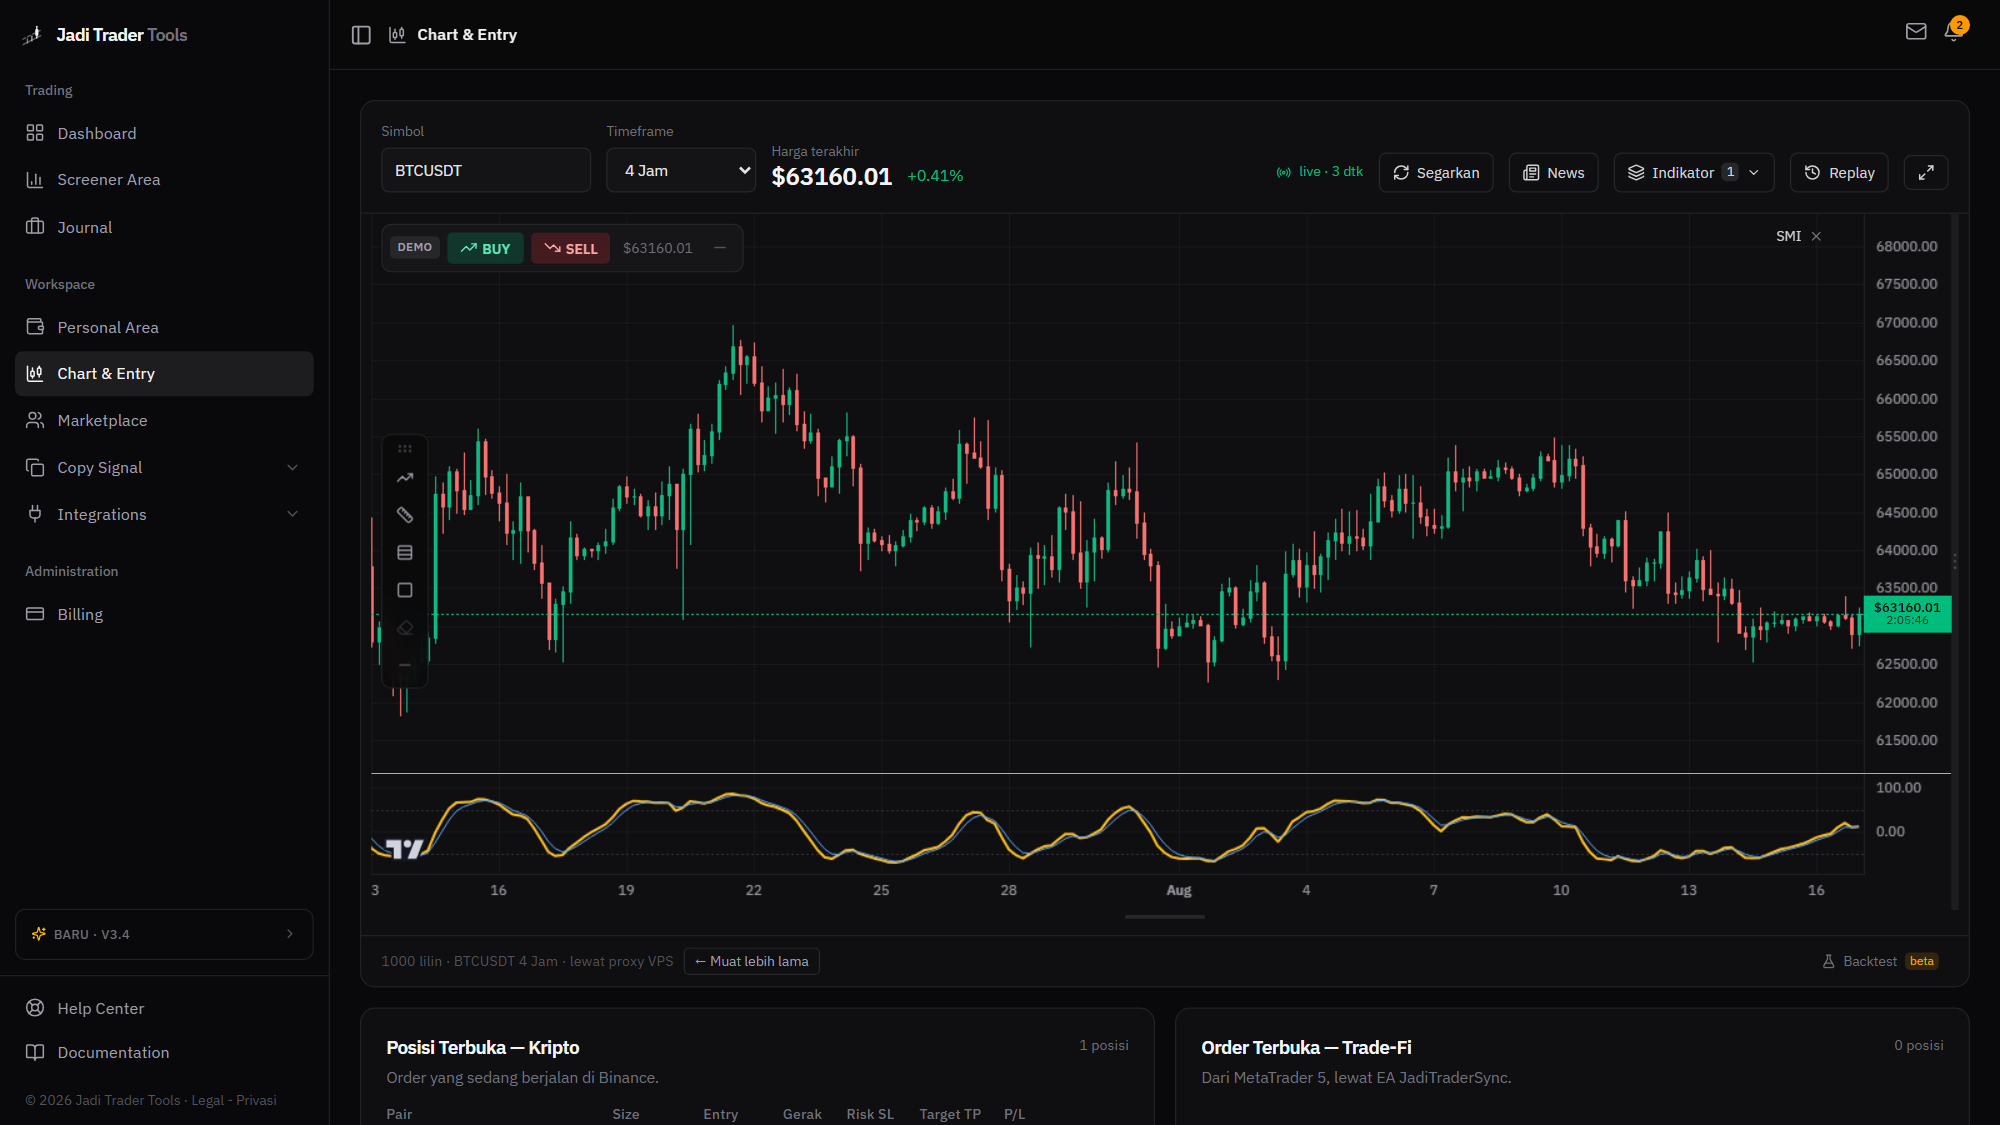
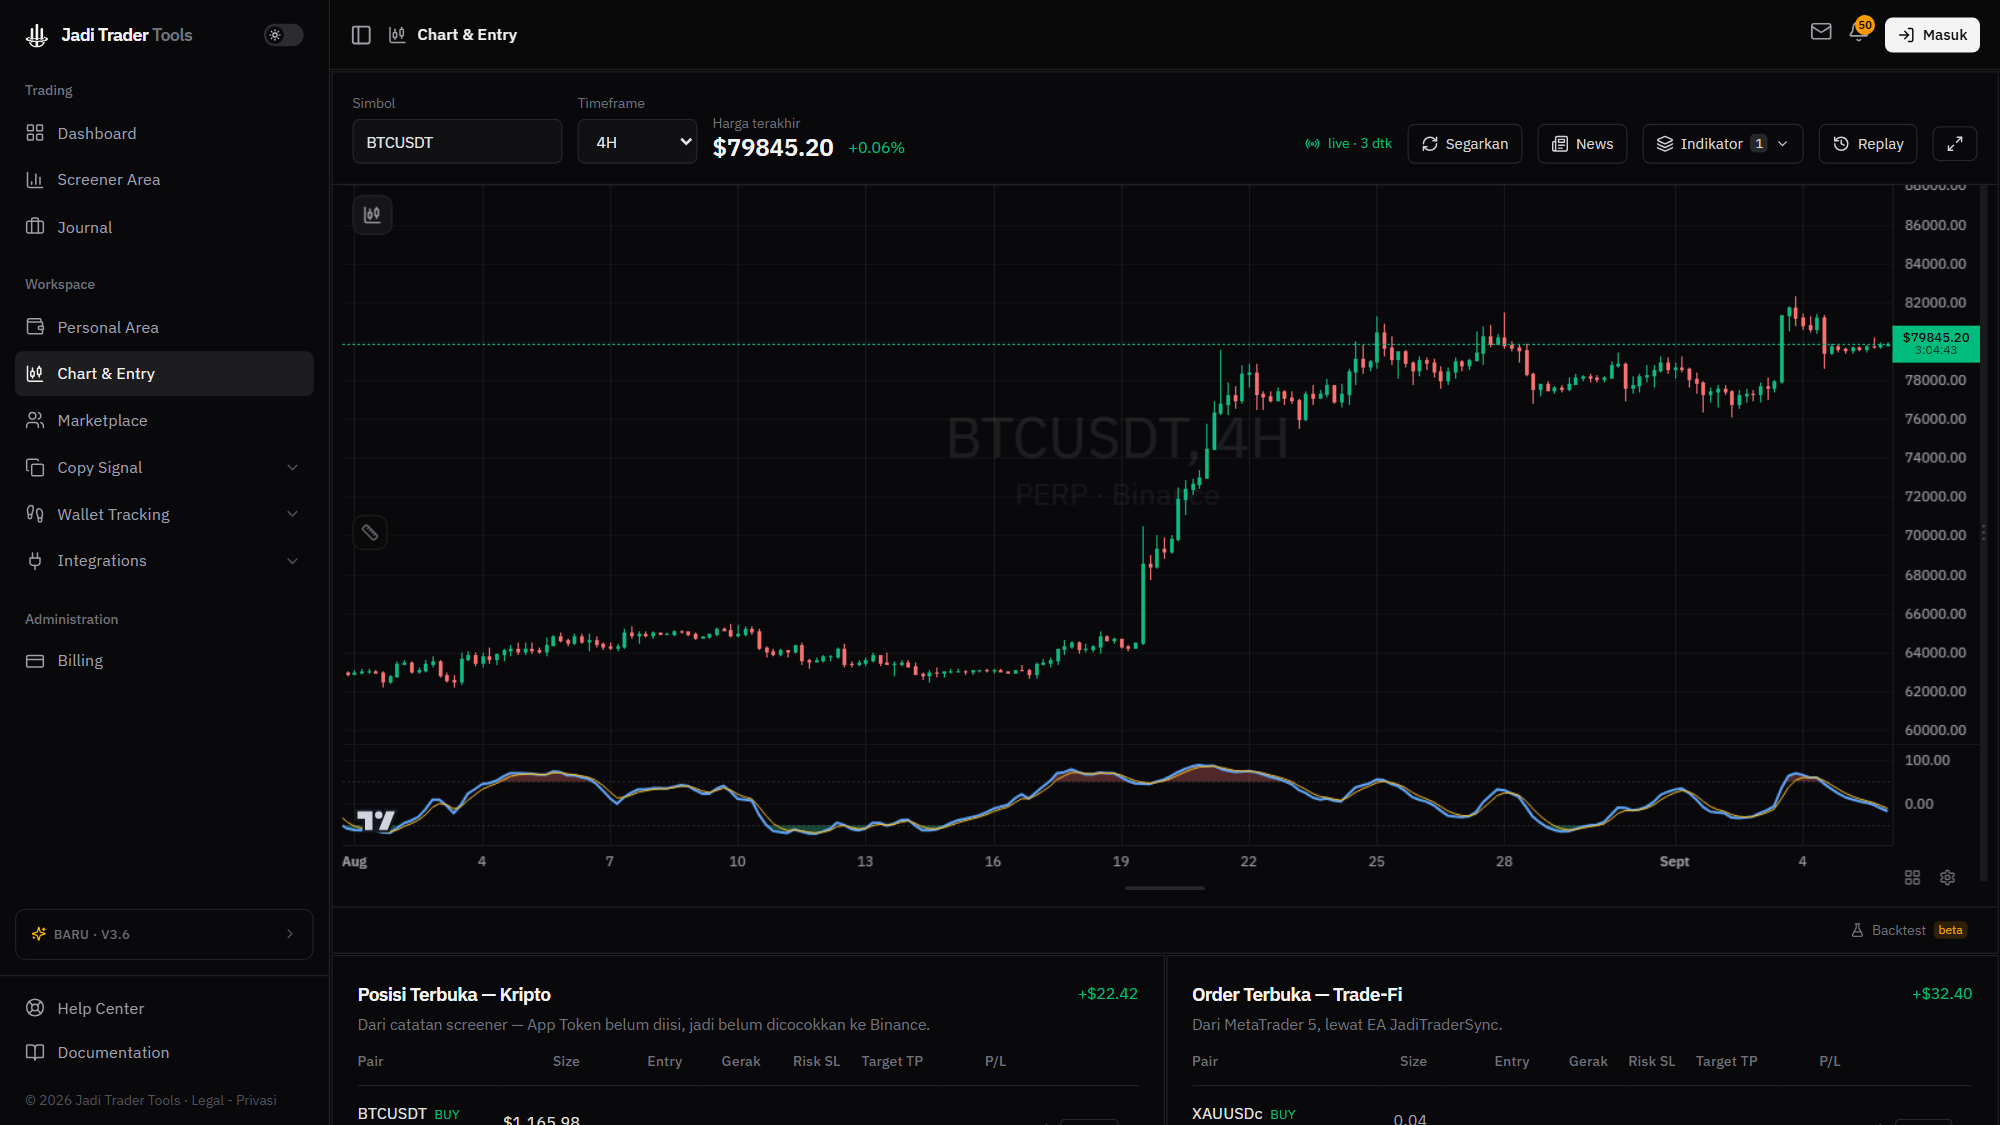
Halaman depan menyusul isi situsnya lagi -- dan v3.7
Tangkapan layar di halaman depan berhenti diperbarui 17 Agustus. Bukan karena
lupa: tangkap.mjs masih memakai alamat model lama (`localhost:5190/#` + rute)
sejak V3 pindah dari HashRouter ke BrowserRouter. `#/dashboard` sesudah itu
cuma jangkar di halaman "/", jadi skripnya memotret halaman yang SAMA lima
kali dan melaporkan "ok" lima kali. Tidak ada satu pun galat.

TANGKAP.MJS
- Alamatnya path, bukan hash.
- Penjaga baru: kalau halaman yang tertangkap ternyata "/" padahal rutenya
  bukan "/", barisnya ditandai NYASAR. Kegagalan diam-diam yang sama tidak
  bisa terulang tanpa terlihat.
- Jeda per halaman bisa ditambah untuk layar yang lambat.
- /screener diganti /screener-react. /screener adalah BINGKAI ke berkas V2
  yang punya gerbang login Google sendiri di dalamnya; pengguna yang sudah
  masuk melewatinya tanpa sadar, tapi kamera tidak masuk ke mana pun jadi
  yang tertangkap cuma kotak "Login untuk melanjutkan". Rute React-nya
  memakai mesin pindai yang sama persis (lib/pindai.ts).

TUR LAYAR: 5 -> 8
Ditambah Wallet Tracking, Personal Area, dan Marketplace -- tiga menu yang
tumbuh sejak Agustus dan tidak satu pun pernah terlihat di halaman depan.
Diuji dengan menggulir kotaknya sungguhan: kedelapan seksi berputar masuk
pada urutan yang benar dan gambarnya menyusul satu per satu.

Coin Hunter TIDAK ikut. Layarnya minta login sebelum menampilkan apa pun,
jadi yang bisa dipotret cuma tiga kotak kosong.

INTEGRASI SEBUT HYPERLIQUID
[…]

diff --git a/Template V3/src/data/notifikasi.ts b/Template V3/src/data/notifikasi.ts
@@ -94,6 +94,38 @@ export interface Rilis {
 /* Urutan: terbaru dulu. CHANGELOG[0] yang tampil di kotak sidebar. */
 export const CHANGELOG: Rilis[] = [
   {
+    versi: 'v3.7',
+    tanggal: '6 September 2026',
+    judul: 'Bursa kedua, dan uang on-chain yang bisa diikuti',
+    ringkas: 'Order berangkat ke Hyperliquid, dompet perp on-chain punya menunya sendiri dan ikut dinilai papan peringkat, dan copy signal berhenti terkunci di MetaTrader 5.',
+    sorotan:
+      'Dua minggu terakhir semuanya menuju satu arah: alat ini berhenti mengandaikan satu bursa dan satu jenis ' +
+      'lawan main. Hyperliquid kini bisa dikirimi order dan ditutup posisinya dari panel yang sama dengan Binance, ' +
+      'sinyal yang kamu ikuti bisa disalin ke bursa mana pun yang kamu pilih saat menekan Ikuti, dan dompet perp ' +
+      'on-chain — yang tidak pernah menulis sinyal, cuma membuka posisi — masuk papan peringkat memakai aturan ' +
+      'penilaian yang sama dengan analis manusia dan agen AI. Yang dinilai tetap hasil yang sudah terjadi, bukan ' +
+      'yang dijanjikan siapa pun.',
+    butir: [
+      { jenis: 'baru', teks: 'Order Hyperliquid — kirim, pasang SL/TP, dan tutup posisi dari panel yang sama dengan Binance. Simbol yang tidak ada di Binance dirutekan sendiri oleh server.' },
+      { jenis: 'baru', teks: 'Wallet Tracking jadi menu sendiri, berisi Dompet Pantauan, Posisi Copy, dan Coin Hunter — tiga hal yang dulu cuma bisa ditemukan sesudah membuka kartu agen yang tepat.' },
+      { jenis: 'baru', teks: 'Papan peringkat Hyperliquid: puluhan ribu dompet diurutkan dari hasil trading-nya sendiri, lengkap dengan posisi yang sedang dipegang dan sejak harga berapa.' },
+      { jenis: 'baru', teks: 'Dompet on-chain ikut masuk papan peringkat analis. Rekam jejaknya dihitung dengan aturan yang sama dengan analis manusia dan agen AI.' },
+      { jenis: 'baru', teks: 'Copy Signal bisa menyalin ke Binance dan Hyperliquid, bukan cuma MetaTrader 5. Bursa tujuan dan leverage-nya dipilih saat menekan Ikuti.' },
+      { jenis: 'baru', teks: 'Coin Hunter — tempel alamat kontrak koin presale, dan halaman ini berbunyi begitu ada kolam DEX dengan likuiditas nyata, beserta berapa kali lipat harganya terhadap harga belimu.' },
+      { jenis: 'baru', teks: 'EMA masuk indikator bawaan Chart & Entry: satu sampai tiga garis, periodenya diatur sendiri.' },
+      { jenis: 'baru', teks: 'Multi-chart — beberapa chart berdampingan di satu layar, saling menyusul saat simbol atau replay-nya digeser.' },
+      { jenis: 'baru', teks: 'Timeframe 30 menit dan mingguan untuk simbol MetaTrader 5, disusun dari data yang sudah ada tanpa menunggu kiriman baru dari EA.' },
+      { jenis: 'peningkatan', teks: 'Halaman harga terbuka sebagai lapisan di atas pekerjaanmu, bukan halaman penuh. Ditutup, dan kamu kembali ke tempat semula.' },
+      { jenis: 'peningkatan', teks: 'Papan peringkat memakai penomoran geser seperti panel analis, jadi daftar yang panjang tidak lagi memanjangkan halamannya.' },
+      { jenis: 'peningkatan', teks: 'Kartu sinyal menyebut umur postingannya — "12 menit lalu" — bukan tanggal yang harus dihitung sendiri terhadap hari ini.' },
+      { jenis: 'perbaikan', teks: 'Order Buy Stop BTC ditolak "-1111 Precision" karena aturan angka simbolnya sempat terbaca dari bursa yang salah. Aturan angka dan bursa tujuan kini wajib berasal dari satu sumber, dan ordernya berhenti sebelum berangkat kalau keduanya berselisih.' },
+      { jenis: 'perbaikan', teks: 'Tutup posisi Hyperliquid dari tabel Posisi Terbuka. Permintaannya dulu dirutekan ke Binance, yang tidak mengenal nama simbolnya.' },
+      { jenis: 'perbaikan', teks: 'Perkembangan akun di Dashboard dihitung dari total return sepanjang masa, bukan bulan berjalan — dulu bisa menulis +3,5% pada akun yang sedang minus.' },
+      { jenis: 'perbaikan', teks: 'Setoran dan penarikan di Journal berhenti terlihat seperti masih memuat padahal angkanya sudah tersimpan.' },
+      { jenis: 'perbaikan', teks: 'Tangkapan layar di halaman depan menyusul isi aplikasinya lagi. Skrip pemotretnya masih memakai alamat model lama sejak router diganti, jadi selama tiga minggu ia memotret halaman yang sama berulang kali tanpa satu pun galat.' },
+    ],
+  },
+  {
     versi: 'v3.6',
     tanggal: '24 Agustus 2026',
     judul: 'Dua agen AI masuk papan sebagai trader independen',

diff --git a/Template V3/src/components/ui/story-scroll-demo.tsx b/Template V3/src/components/ui/story-scroll-demo.tsx
@@ -36,37 +36,68 @@ type Layar = {
 
 /* Urutannya BUKAN urutan menu, melainkan urutan cerita: yang paling dulu
    ditunjukkan adalah layar yang paling menjelaskan produk ini. Chart &
-   Entry dinaikkan ke nomor satu karena di situlah replay dan penyusunan
-   order terjadi — inti yang dijual. Screener turun ke nomor tiga.
+   Entry nomor satu karena di situlah replay dan penyusunan order terjadi —
+   inti yang dijual. Lalu berpindah ke luar: apa yang dicari (Screener),
+   siapa yang sedang bergerak (Wallet Tracking, Copy Signal), baru kembali
+   ke dalam untuk apa yang tercatat (Dashboard, Journal, Personal Area).
 
    Kalau daftar ini diubah lagi, `no` harus ikut dinomori ulang: angkanya
    ditulis tangan, tidak diturunkan dari indeks, jadi menukar dua entri
-   tanpa memperbaiki `no` akan menampilkan "03" di posisi pertama. */
+   tanpa memperbaiki `no` akan menampilkan "03" di posisi pertama.
+
+   ── DARI LIMA JADI DELAPAN, 6 Sep 2026 ──────────────────────────────────
+   Diminta pemilik: tiga menu tumbuh sejak Agustus dan tidak satu pun pernah
+   terlihat di halaman depan. Yang ditambahkan Wallet Tracking, Personal
+   Area, dan Marketplace.
+
+   Coin Hunter TIDAK ikut walau ia menu tersendiri. Layarnya minta login
+   sebelum menampilkan apa pun, jadi yang bisa dipotret cuma tiga kotak
+   kosong — dan kotak kosong di halaman jualan mengatakan hal yang salah
+   tentang alat yang sebenarnya bekerja.
+
+   Aksennya sengaja berjauhan di roda warna, bukan sekadar "delapan warna
+   cerah": dua seksi berurutan dengan biru yang mirip terbaca sebagai satu
+   seksi yang gambarnya berganti, bukan sebagai dua layar berbeda. */
 const LAYAR: Layar[] = [
   {
     no: '01', berkas: 'chart', aksen: '#60a5fa',
     judul: 'Chart & Entry',
-    ket: 'Susun entry, SL, dan TP dengan menggeser garis. Order berangkat ke Binance lewat VPS-mu sendiri.',
+    ket: 'Susun entry, SL, dan TP dengan menggeser garis. Ordernya berangkat ke Binance, Hyperliquid, atau MetaTrader 5 lewat VPS-mu sendiri.',
   },
   {
-    no: '02', berkas: 'dashboard', aksen: '#34d399',
-    judul: 'Dashboard',
-    ket: 'Saldo, winrate, dan profit factor dihitung dari transaksimu sendiri — bukan dari angka yang kami karang.',
-  },
-  {
-    no: '03', berkas: 'screener', aksen: '#ffcd75',
+    no: '02', berkas: 'screener', aksen: '#ffcd75',
     judul: 'Screener Area',
     ket: 'Pindai ratusan pair sekaligus. Yang lolos saring muncul dengan alasannya, bukan cuma tanda panah.',
   },
   {
-    no: '04', berkas: 'jurnal', aksen: '#f472b6',
+    no: '03', berkas: 'wallet', aksen: '#2dd4bf',
+    judul: 'Wallet Tracking',
+    ket: 'Puluhan ribu dompet Hyperliquid diperingkat dari hasil trading-nya sendiri — kelihatan siapa yang sedang pegang apa, dan sejak harga berapa.',
+  },
+  {
+    no: '04', berkas: 'copy', aksen: '#c084fc',
+    judul: 'Copy Signal',
+    ket: 'Sinyal dari analis lain, agen AI, dan dompet on-chain. Diurutkan dari rekam jejak sinyalnya sendiri, bukan dari jumlah pengikut.',
+  },
+  {
+    no: '05', berkas: 'dashboard', aksen: '#34d399',
+    judul: 'Dashboard',
+    ket: 'Saldo, winrate, dan profit factor dihitung dari transaksimu sendiri — bukan dari angka yang kami karang.',
+  },
+  {
+    no: '06', berkas: 'jurnal', aksen: '#f472b6',
     judul: 'Journal',
     ket: 'Kurva ekuitas dan kalender P/L terisi sendiri dari MetaTrader 5 dan Binance. Tidak ada yang diketik ulang.',
   },
   {
-    no: '05', berkas: 'copy', aksen: '#c084fc',
-    judul: 'Copy Signal',
-    ket: 'Sinyal dari analis lain, diurutkan dari hasil sinyalnya sendiri — bukan dari jumlah pengikut.',
+    no: '07', berkas: 'personal', aksen: '#fb923c',
+    judul: 'Personal Area',
+    ket: 'Bukan cuma akun trading. Emas, saham, tabungan, sampai utang duduk di satu tempat — dan pos bertanda live ikut bergerak mengikuti harga.',
+  },
+  {
+    no: '08', berkas: 'marketplace', aksen: '#a3e635',
+    judul: 'Marketplace',
+    ket: 'Indikator dan EA yang dipakai terminal ini. Yang Pine berjalan di mesin aplikasi ini sendiri — dipasang sekali, langsung tergambar di chart.',
   },
 ];
 

diff --git a/Template V3/src/halaman/Template.tsx b/Template V3/src/halaman/Template.tsx
@@ -6,6 +6,7 @@ import {
   ArrowRightIcon, EyeIcon,
   GlobeIcon, LayersIcon, UserPlusIcon, Users, Star,
   FileText, Shield, RotateCcw, Handshake, HelpCircle, BarChart, PlugIcon, BookOpen,
+  Footprints,
 } from 'lucide-react';
 import { Button } from '@/components/ui/button';
 import { ParallaxComponent } from '@/components/ui/parallax-scrolling';
@@ -400,7 +401,11 @@ const productLinks: LinkItem[] = [
   { title: 'Journal',        href: '/jurnal',    description: 'Catat trade, emosi, dan alasan — dari MT5 & Binance',      icon: FileText },
   { title: 'Copy Signal',    href: '/copy',      description: 'Sinyal analis lain, dinilai dari performa sinyalnya',      icon: UserPlusIcon },
   { title: 'Marketplace',    href: '/marketplace', description: 'EA, indikator, dan alat bantu trading',                  icon: GlobeIcon },
-  { title: 'Integrations',   href: '/integrasi', description: 'Sambungkan MetaTrader 5 dan Binance Futures',              icon: PlugIcon },
+  /* Wallet Tracking BARU MASUK 6 Sep 2026. Menunya sudah hidup di aplikasi
+     sejak akhir Agustus, tapi menu produk di halaman depan tidak ikut — jadi
+     satu-satunya cara menemukannya adalah membayar dulu. */
+  { title: 'Wallet Tracking', href: '/wallet-tracking', description: 'Dompet perp on-chain yang dilacak, dan koin presale yang ditunggu', icon: Footprints },
+  { title: 'Integrations',   href: '/integrasi', description: 'Sambungkan MetaTrader 5, Binance, dan Hyperliquid',        icon: PlugIcon },
 ];
 
 const companyLinks: LinkItem[] = [

diff --git a/Template V3/src/components/ui/featuresgrid.tsx b/Template V3/src/components/ui/featuresgrid.tsx
@@ -117,8 +117,8 @@ export const Component = () => {
                 <h3 className="text-sm font-medium">Integrasi</h3>
               </div>
               <p className="text-sm text-neutral-400">
-                Sambungkan MT5 dan Binance, lalu posisi serta riwayatmu masuk sendiri —
-                tidak perlu dicatat ulang satu per satu.
+                Sambungkan MetaTrader 5, Binance, dan Hyperliquid — posisi serta riwayatmu
+                masuk sendiri, tidak perlu dicatat ulang satu per satu.
               </p>
             </div>
           </div>
@@ -133,9 +133,10 @@ export const Component = () => {
                 <h3 className="text-sm font-medium">Copy Signal</h3>
               </div>
               <p className="text-sm text-neutral-400">
-                Sinyal dari analis lain dan agen AI, dinilai dari rekam jejak sinyalnya
-                sendiri — winrate, gaya trading, dan tingkat risikonya dihitung dari harga
-                yang sudah terjadi, bukan dari klaim yang ditulis pemiliknya.
+                Sinyal dari analis lain, agen AI, dan dompet on-chain yang dipantau — semuanya
+                dinilai dari rekam jejak sinyalnya sendiri. Winrate, gaya trading, dan tingkat
+                risikonya dihitung dari harga yang sudah terjadi, bukan dari klaim yang ditulis
+                pemiliknya.
               </p>
             </div>
           </div>

diff --git a/Template V3/src/components/ui/peraga-kartu.tsx b/Template V3/src/components/ui/peraga-kartu.tsx
@@ -95,9 +95,17 @@ export function PeragaJurnal() {
    terbaca seperti satu lampu yang dikedipkan, bukan seperti dua sambungan
    yang masing-masing hidup. */
 
+/* Tiga, sejak 6 Sep 2026. Hyperliquid sudah dilalui order sungguhan —
+   kirim, tutup, dan salin — jauh sebelum baris ini menyebutnya, jadi yang
+   diperbaiki di sini bukan kemampuannya melainkan halaman yang masih
+   menceritakan kemampuan bulan lalu.
+
+   Keterangan kanannya menyebut PASAR, bukan merek: orang yang belum kenal
+   Hyperliquid tidak terbantu oleh kata "Hyperliquid" diulang dua kali. */
 const SAMBUNGAN = [
   { n: 'MetaTrader 5', k: 'Forex & Emas' },
   { n: 'Binance', k: 'Kripto Futures' },
+  { n: 'Hyperliquid', k: 'Perp on-chain' },
 ];
 
 export function PeragaIntegrasi() {
@@ -125,7 +133,7 @@ export function PeragaIntegrasi() {
         </div>
       ))}
       <div className="mt-0.5 font-mono text-[9.5px] leading-relaxed text-neutral-600">
-        Kunci API disimpan di perangkatmu sendiri.
+        Kunci API tinggal di backend-mu sendiri.
       </div>
     </div>
   );
